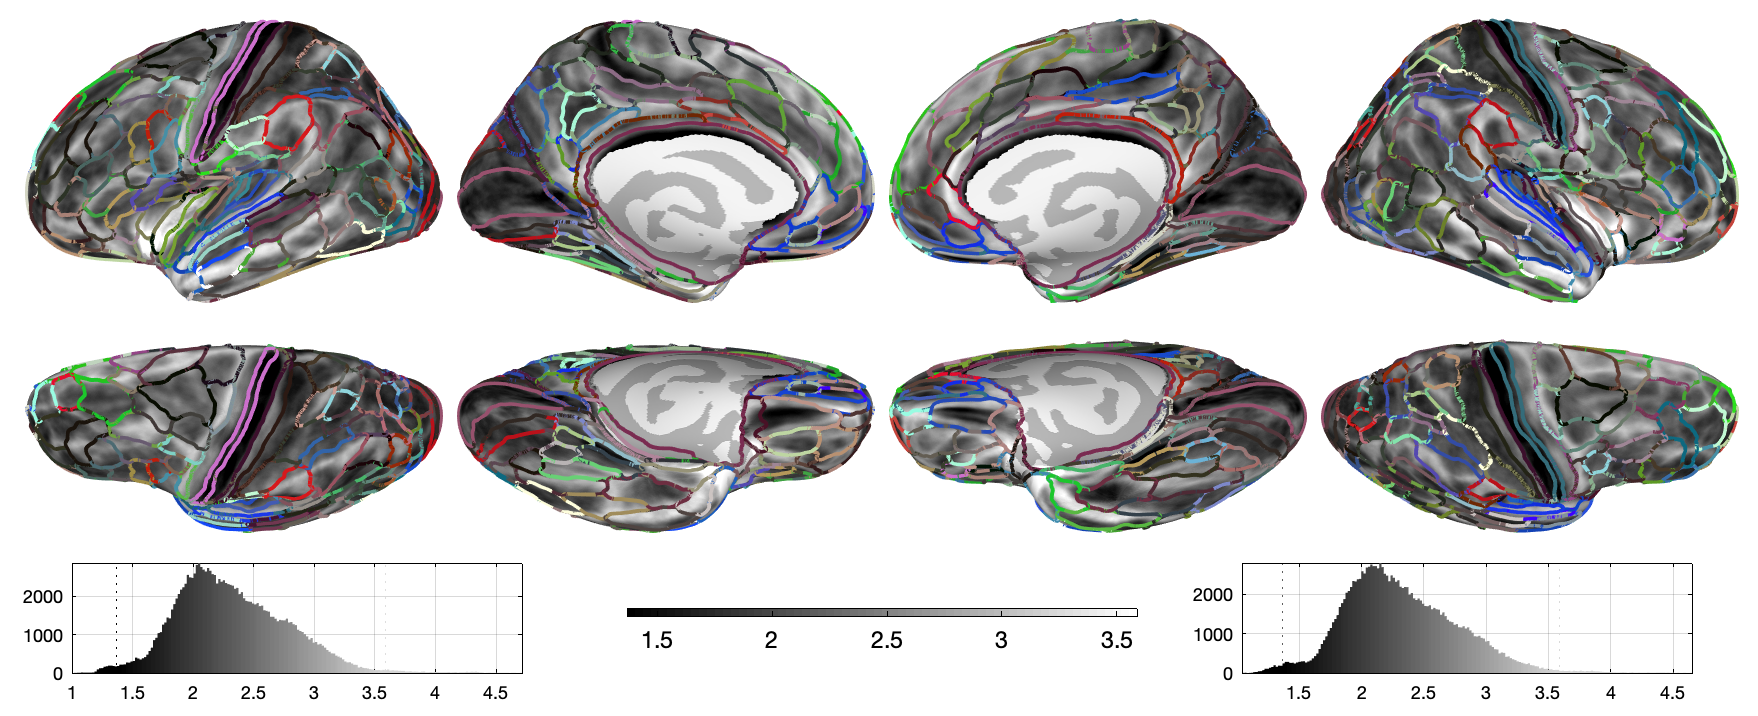
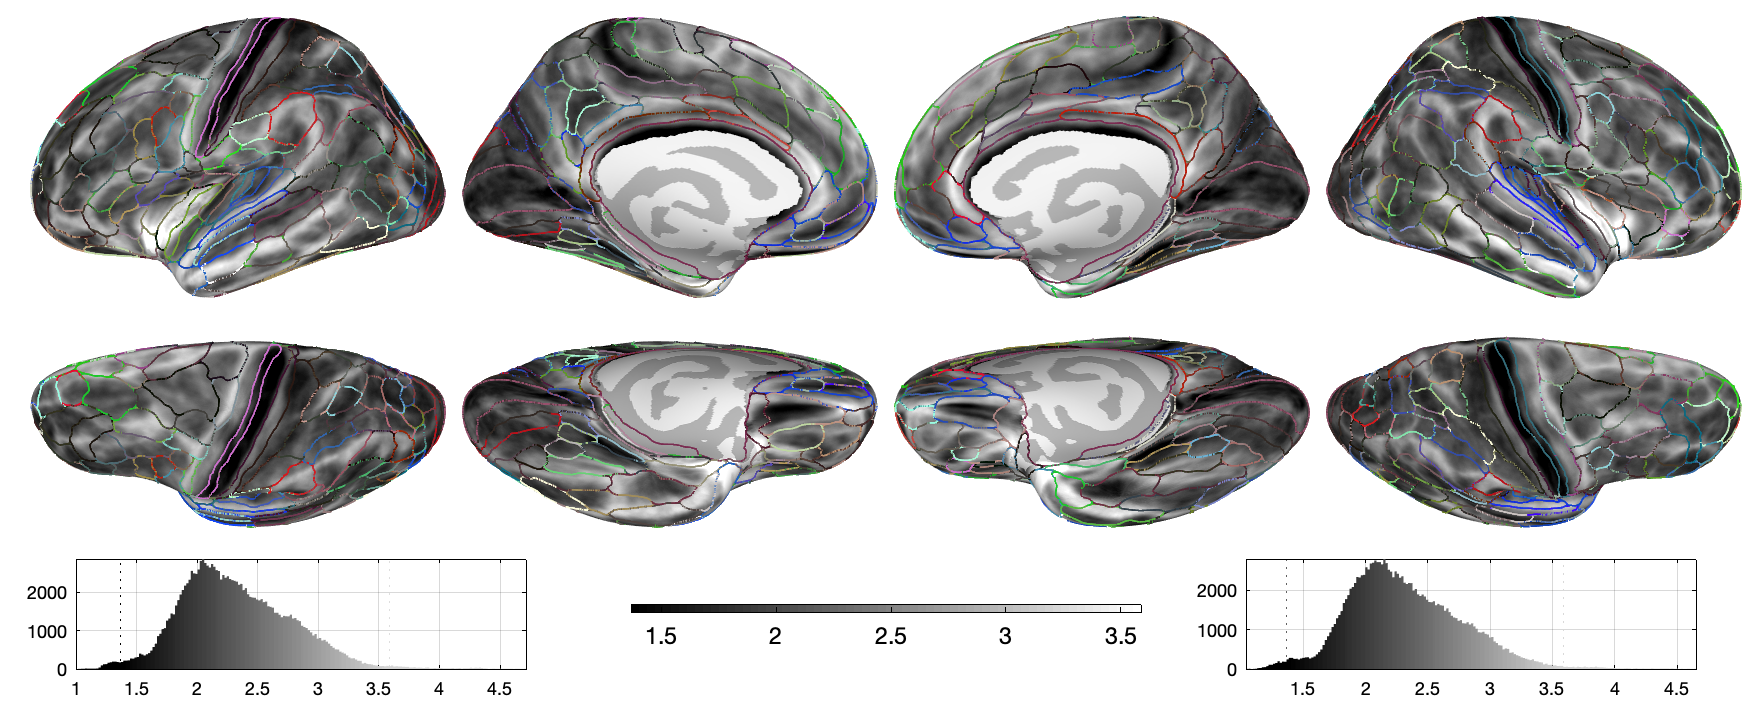
thinner liners

diff --git a/test/test_isoclus.m b/test/test_isoclus.m
@@ -53,8 +53,8 @@ view_surfdata(lh, thns, struct('basecolormap',[0 0 0; 1 1 1], 'caxis',[1 4], 'co
 %%
 fsavg = fsss_read_all_FS_surfs('fsaverage');
 labels = {};
-[verts, labels{1}, cot] = read_annotation( '/Users/sol/fsaverage/label/lh.HCP-MMP1.annot', 0 );
-[verts, labels{2}, cot] = read_annotation( '/Users/sol/fsaverage/label/rh.HCP-MMP1.annot', 0 );
+[~, labels{1}, cot] = read_annotation( '/Users/sol/fsaverage/label/lh.HCP-MMP1.annot', 0 );
+[~, labels{2}, cot] = read_annotation( '/Users/sol/fsaverage/label/rh.HCP-MMP1.annot', 0 );
 fsavg = fsss_isoclus(fsavg, labels); % this takes a while for granular annotations
 %%
-fsss_view(fsavg, fsavg.THNS, struct('layout','2x2','colormap',gray, 'isocluslinewidth',2,'isocluscolor',cot.table(:,1:3)/256))
+fsss_view(fsavg, fsavg.THNS, struct('layout','2x4','colormap',gray, 'isocluslinewidth',1,'isocluscolor',cot.table(:,1:3)/256))
